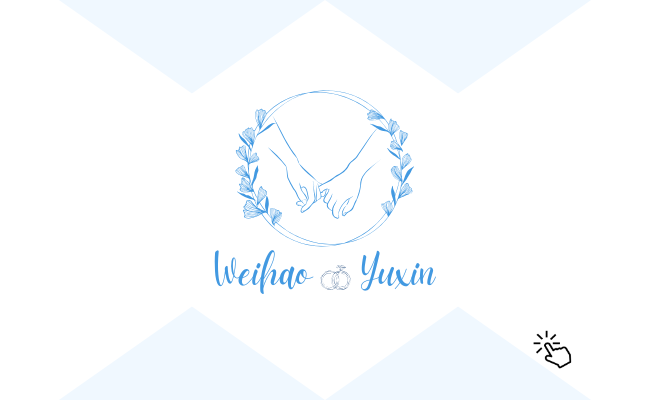
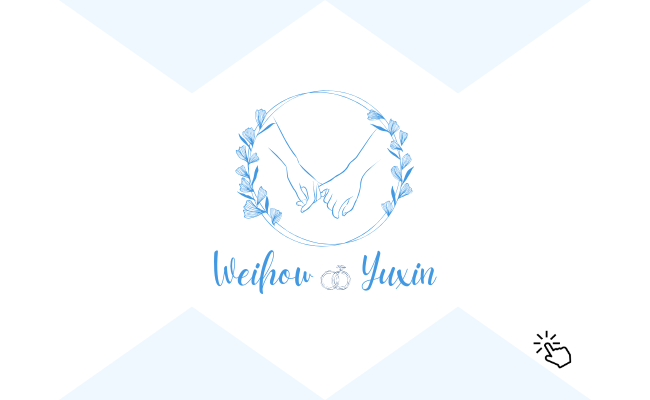
update name

Changed region(s): [[0.3077, 0.63, 0.4923, 0.72], [0.5538, 0.63, 0.6769, 0.72]]

diff --git a/app/page.tsx b/app/page.tsx
@@ -44,7 +44,7 @@ export default function Home() {
             <div className="envelope-body"></div>
             <div className={`envelope-content ${isEnvelopeOpen ? "visible" : ""}`}>
               <h1 className="text-3xl md:text-5xl lg:text-7xl font-semibold mb-4 md:mb-6 lg:mb-8">You're invited!</h1>
-              <p className="text-lg md:text-xl mb-6 md:mb-8 lg:mb-10">by Weihao & Yuxin</p>
+              <p className="text-lg md:text-xl mb-6 md:mb-8 lg:mb-10">by Weihow & Yuxin</p>
               <Link
                 href="/invitation"
                 className="inline-flex items-center bg-blue-300 text-white rounded-full hover:bg-blue-400 transition-colors duration-200 animate-pulse"

diff --git a/app/invitation/page.tsx b/app/invitation/page.tsx
@@ -27,7 +27,7 @@ export default function Invitation() {
               <span className="block">Save the Date</span>
             </h1>
             <h2 className="text-3xl mb-8 text-text/80 font-normal">
-              You are cordially invited to the wedding of Weihao & Yuxin
+              You are cordially invited to the wedding of Weihow & Yuxin
             </h2>
             <CountdownTimer targetDate={eventDate} />
           </div>
